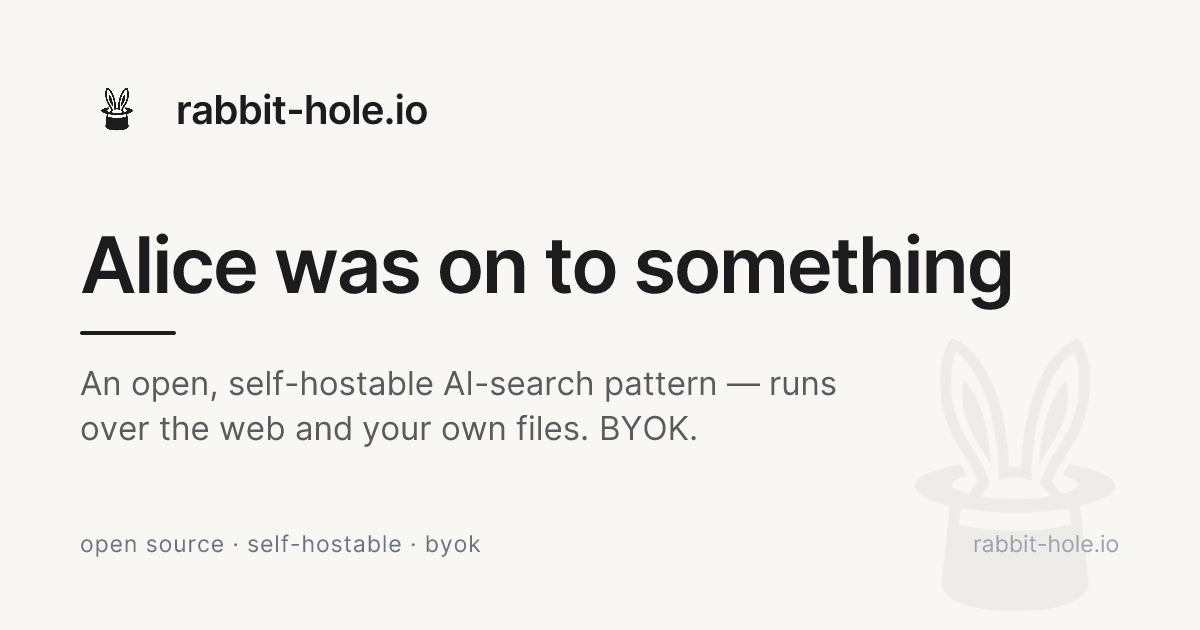
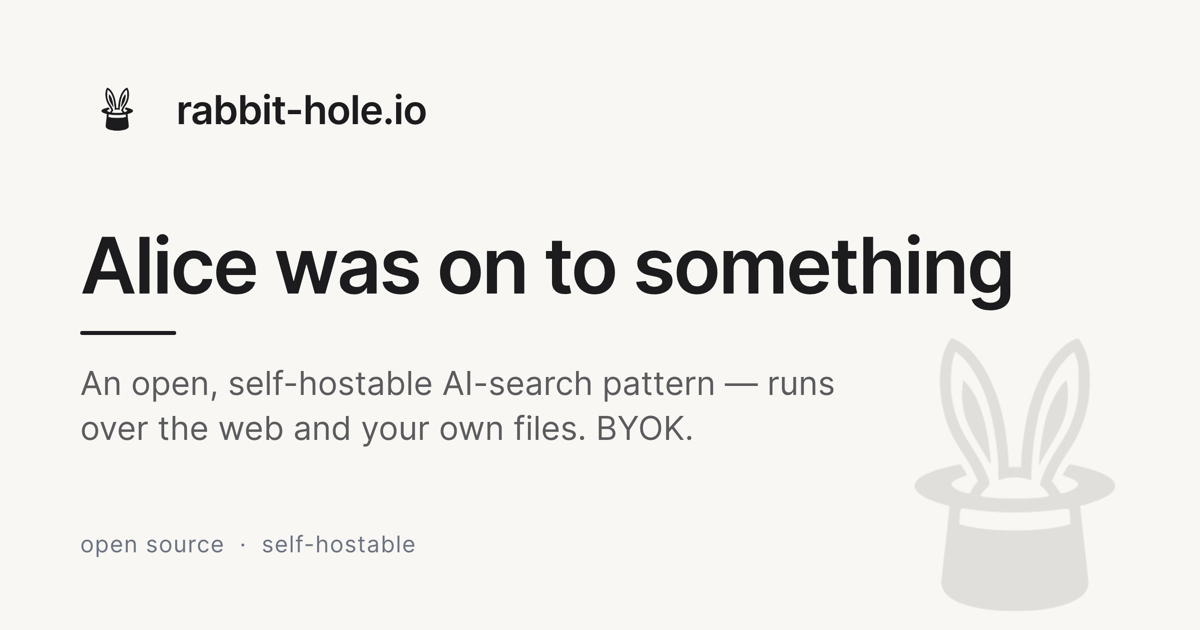
feat(og): refine OG card — drop footer byok, remove bottom-right url, darken mark (#375)
Three tweaks to the OG/banner image (the one used as the README banner and the
marketing/docs social card):
- Footer eyebrow: 'open source · self-hostable · byok' -> drop the redundant
  'byok' (BYOK still reads in the lede).
- Remove the bottom-right 'rabbit-hole.io' text — redundant with the wordmark
  top-left.
- Darken the corner hat-rabbit watermark (opacity 0.05 -> 0.11) so it reads.

Updated both the canonical generator (opengraph-image.tsx) and the static
og-image.png in apps/ + sites/marketing/ (regenerated 1:1 from the same design).

diff --git a/apps/rabbit-hole/app/opengraph-image.tsx b/apps/rabbit-hole/app/opengraph-image.tsx
@@ -26,7 +26,6 @@ export const contentType = "image/png";
 const BG = "#F8F7F4";
 const INK = "#1C1C1E";
 const MUTED = "#5b5b5e";
-const FAINT = "#9ca3af";
 const EYEBROW = "#6b7280";
 
 const asset = (p: string) => readFile(join(process.cwd(), "public", p));
@@ -60,7 +59,7 @@ export default async function OpengraphImage() {
           src={markUri}
           width={470}
           height={470}
-          style={{ position: "absolute", right: -50, bottom: -80, opacity: 0.05 }}
+          style={{ position: "absolute", right: -50, bottom: -80, opacity: 0.11 }}
         />
 
         {/* mark + wordmark */}
@@ -116,8 +115,8 @@ export default async function OpengraphImage() {
           </div>
         </div>
 
-        {/* eyebrow + url */}
-        <div style={{ display: "flex", alignItems: "center", justifyContent: "space-between" }}>
+        {/* eyebrow */}
+        <div style={{ display: "flex", alignItems: "center" }}>
           <div
             style={{
               display: "flex",
@@ -127,10 +126,7 @@ export default async function OpengraphImage() {
               color: EYEBROW,
             }}
           >
-            open source&nbsp;&nbsp;·&nbsp;&nbsp;self-hostable&nbsp;&nbsp;·&nbsp;&nbsp;byok
-          </div>
-          <div style={{ display: "flex", fontSize: 23, fontWeight: 500, color: FAINT }}>
-            {SITE_NAME}
+            open source&nbsp;&nbsp;·&nbsp;&nbsp;self-hostable
           </div>
         </div>
       </div>